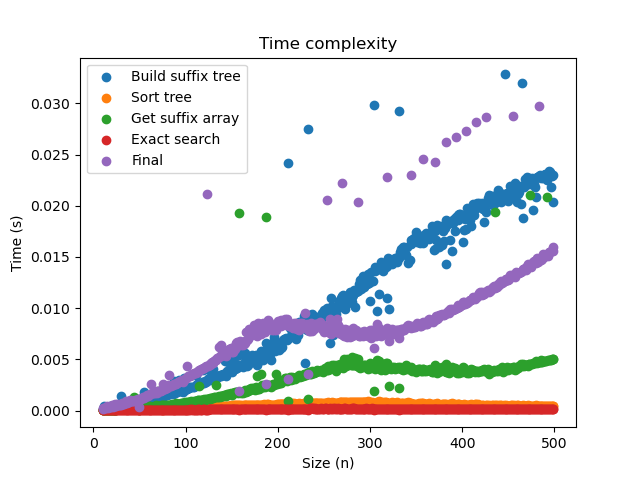
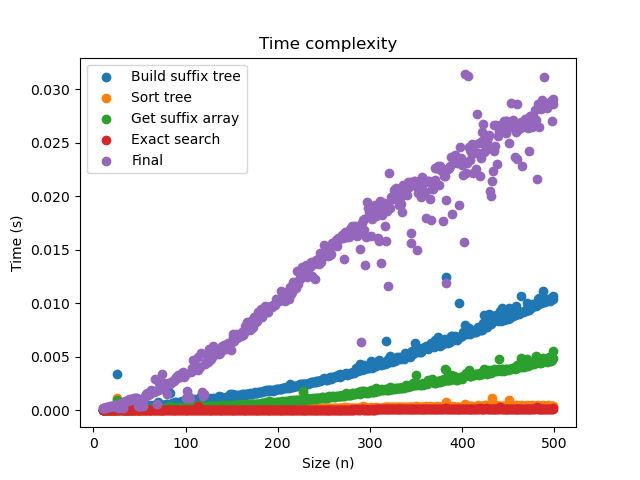
running time

diff --git a/src/time.py b/src/time.py
@@ -4,6 +4,7 @@ from random import choice
 import random
 from sa import *
 from tree import *
+import gc
 
 
 def search_array_2(x, p, SA):
@@ -48,6 +49,16 @@ def time_data1(length, bases):
         start = random.randint(0, i - round(i/10))
         pattern = sequence[start:(start + round(i/10))]
 
+        # Time for function doing everything
+        t0 = time.time()
+        search_array(sequence, pattern)
+        t1 = time.time()
+        total = t1 - t0
+
+        del sequence
+        gc.collect()
+        sequence = ''.join([choice(bases) for j in range(i)])
+
         # Time to construct suffix tree
         t0_construct_tree = time.time()
         T = construct_tree(sequence)
@@ -73,13 +84,6 @@ def time_data1(length, bases):
         t1_exact = time.time()
         total_exact = t1_exact - t0_exact
 
-        # Time for function doing everything
-        t0 = time.time()
-        search_array(sequence, pattern)
-        t1 = time.time()
-
-        total = t1 - t0
-        
         n.append(i)
         t_construct_tree.append(total_construct_tree)
         t_sort_tree.append(total_sort_tree)
@@ -90,6 +94,8 @@ def time_data1(length, bases):
         time.sleep(0.05)
     
     return n,t_construct_tree, t_sort_tree, t_construct_SA, t_exact, t_final
+
+
 
 bases = ['a','t','g','c']
 worst_case = ['a']
@@ -119,5 +125,3 @@ def plot_fig(n, t1, t2, t3, t4, t5, name, number):
     # Save figure in folder figs
     plt.savefig('/home/mathilde/Documents/Kandidat/GSA/Project/Project3/project-3-python-ms-world-wides/figs/{}.png'.format(name))
 
-plot_fig(n, t1, t2, t3, t4, t5, 'time_random', 1)
-plot_fig(n1, t11, t21, t31, t41, t51, 'time_worst_case', 2)

diff --git a/README.md b/README.md
@@ -16,7 +16,7 @@ Once you have implemented the `sa` program (and tested it to the best of your ab
 # Report
 
 ## Algorithm
-We implemented the  suffix array construction algorithm by using the suffix tree from project 2 and then sorting the leaf in lexicographical order. After that we collect all the leaf-labels == suffix array. The running time of building the tree from project 2 is O(n²). Sorting the leafs costs O(n?) and reporting costs O(n?) ->
+We implemented the  suffix array construction algorithm by using the suffix tree from project 2 and then sorting the leaf in lexicographical order. After that we collect all the leaf-labels == suffix array. The running time of building the tree from project 2 is O(n²). Sorting the leafs costs O(n) and reporting costs O(n) if the DNA sequence is random and quadratic if the sequence is a single-sybol string (see below). 
 
 The binary-search based exact pattern matching we implemented by two recursive functions (finding the upper and lower bound). These are called in a for loop over the letter indexes in p and return the start and end indexes used for the following letter in p. Since the sa-boundary for letter i+1 in p is nested in the sa-boundary for letter i, this for loop through p's letters narrows (or keeps constant) the boundary range in every loop until finally returning it for the entire pattern.
 It runs in O(m log n + z).
@@ -34,11 +34,15 @@ We used the upper bound as the end of sa rather than one outside, which caused i
 To check the correctness of the algorithm we compared the output of our match-algorithm with the output of the linear exact matching algorithm from project one. We used empty strings, uniform ones, random ones and part of existing DNA sequences to test our functions.
 
 ## Running time
-To test the running time of the algorithm, we simulated random DNA sequences with belonging patterns. The running time was measured for building a suffix tree, sorting the tree, getting the suffix array and doing exact pattern matching. The running time was also measured for the final function consisting of all the steps. The result is shown in the figure below.
+To test the running time of the algorithm, we simulated random DNA sequences with belonging patterns. The running time was measured for building a suffix tree, sorting the tree, getting the suffix array and doing binary-search exact pattern matching. The running time was also measured for the final function consisting of all the steps. The result is shown in the figure below.
 ![](figs/time_random.png)
 
 We also tested the running time with single-symbol strings. The result is shown below:
 
 ![](figs/time_worst_case.png)
 
-As known the naive approach to build a suffix tree performs very poorly on single-symbol strings but better on random DNA sequences. It is also what is seen here, and what takes the most time. For the single-symbol string, the graph for building a suffix tree seems to grow quadratic. This affect the result of the final function. However, when we use a random DNA sequence, the running time for building the suffix tree seems more linear, and hence, the final algortihmm seems to run in O(m log n + z) time.
+Looking at the scale of the y-axis, we can see, that the running time is around 3 times worse on single-symbol strings for the final algorithm. Sorting the tree and doing the binary-search search doesn't seem to change whether we have random DNA sequences or single-symbol string. Here the running time seems to be linear, even though we expect to see a running time of O(m log n + z). To see a running time of O(m log n + z) would maybe require to run the experiment with longer sequences than done in this project.
+
+As known the naive approach to build a suffix tree performs very poorly on single-symbol strings and gives us a running time that looks quadratic whereas it performs better on random DNA strings. Here the running time seems linear. 
+Getting the suffix array is also influenced by which strings we investigate. The running time looks quadratic on single-symbol strings and linear on random DNA sequences.
+
